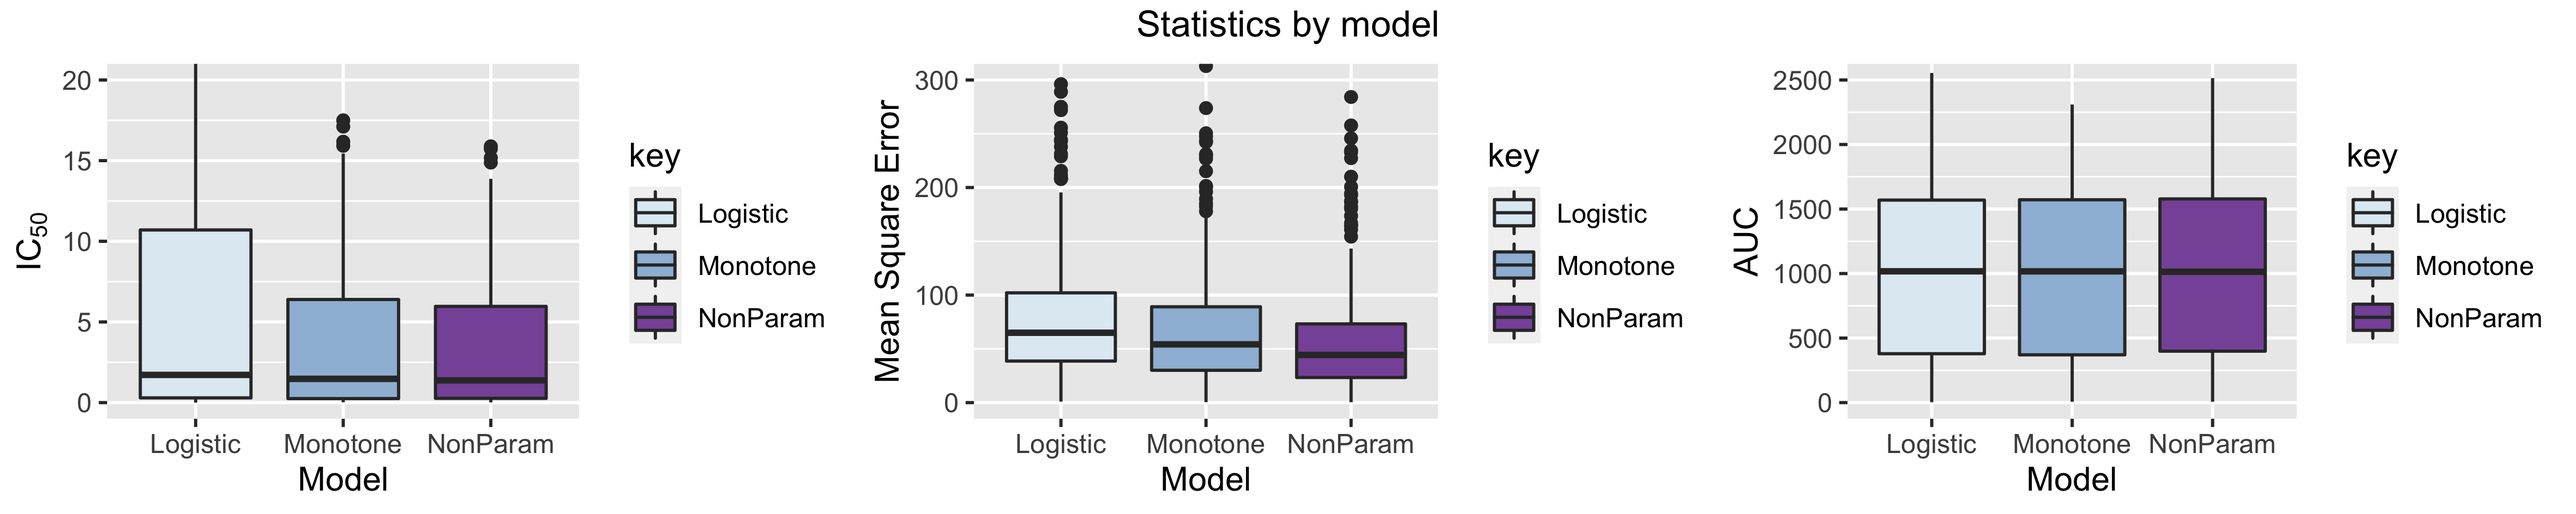
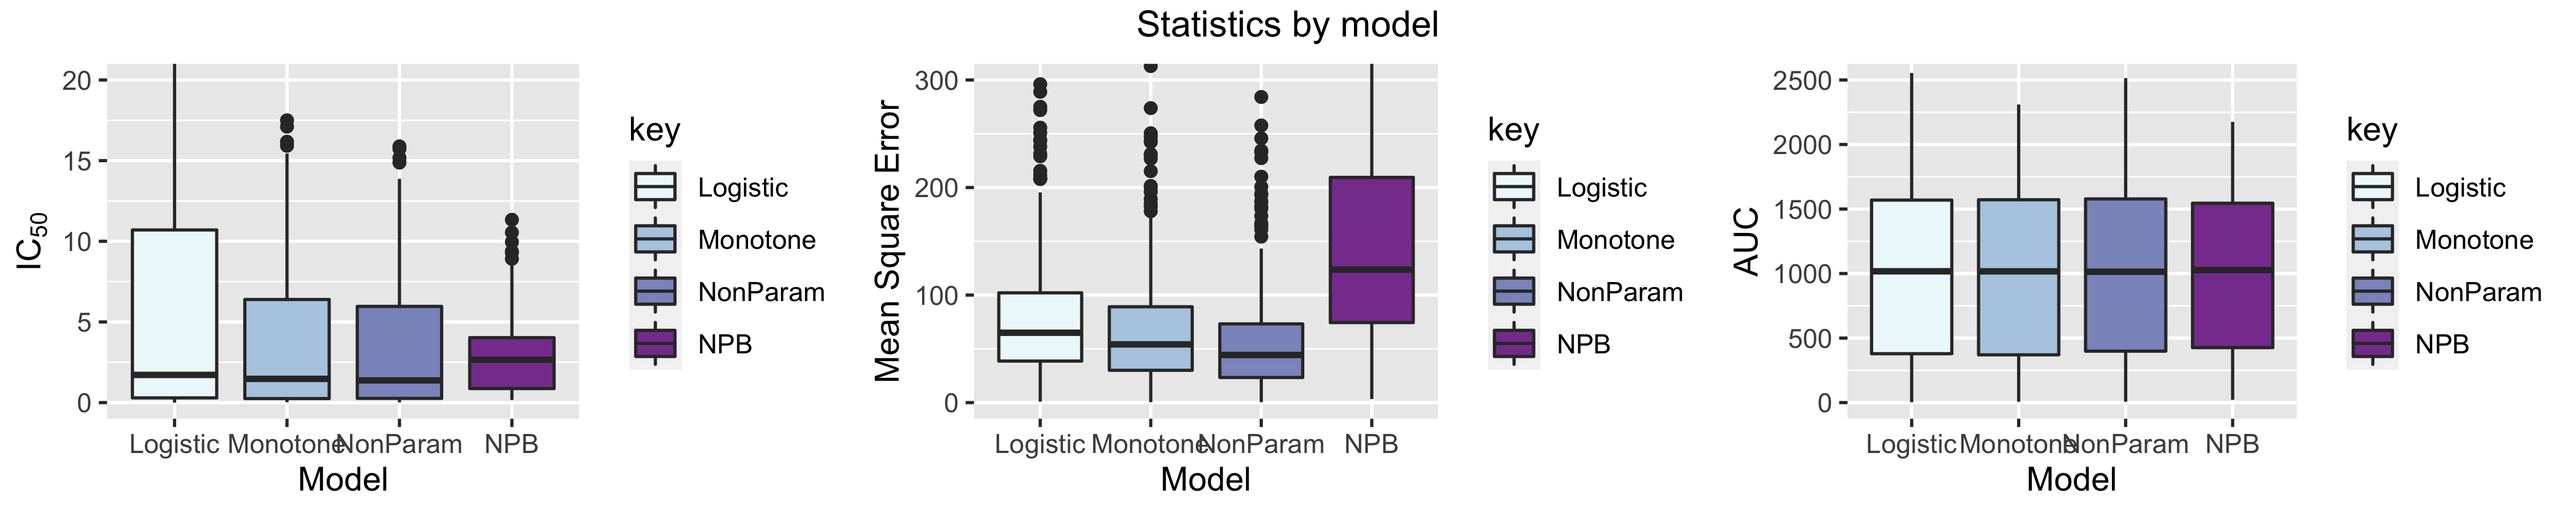
Supplementary Material and small changes

diff --git a/documents/supplementary.md b/documents/supplementary.md
@@ -1,0 +1,13 @@
+### Supplemantary Material
+
+- **Violin plots for the statistics**
+
+For all the data found in ["Intra-tumour diversification in colorectal cancer at the single-cell level"](https://www.nature.com/articles/s41586-018-0024-3), we have fitted each of the four models *npS*,*npM*, *npB* and *pL* to each combination of drug, patient, treatment and sample. For *npB* we followed the aformentioned procedure of fixing the knots of the function at the doses and choosing the variance parameter of the Normal CDF from a grid of values including the max-likelihood estimate, as the one which minimized the squared error, and then computed the posterior parameters with the Metropolis-Hastings algorithm for 10,000 iterations. We found the $IC_{50}$, $MSE$ and $AUC$ for each of the models which are shown in the figures below in violin plots. Note that we have included a box plot within the violin plots to showcase where the median, first and fourth quantiles are, and outliers are marked with strong dots. Outliers are those that reside outside the first quantile minus 1.5 times the interquartile range, or the third quantile plus 1.5 the interquantile range. 
+
+<img src="images/fig6.png" alt="drawing" style="width:300px;"/>
+<img src="images/fig7.png" alt="drawing" style="width:300px;"/>
+<img src="images/fig8.png" alt="drawing" style="width:300px;"/>
+
+Using a Shapiro test we reject the hypothesis of normality, so we use the nonparametric Wilcoxon test, to compare wether the mean of nonparametric models are statistical different from the parametric logistic model. The results of the tests are shown in the table below. In summary the $IC_{50}$ of NPS and NPM are slightly smaller than the Logistic model. The mean squared error of $NPS$ is the smallest as the mean is the statistic that minimizes the mean squared error, and so its MSE is different statistically from the Logistic model, the NPB has a significantly bigger MSE than the Logistic model. The AUC are similar in all the models. 
+
+<img src="images/fig9.png" alt="drawing" style="width:300px;"/>

diff --git a/documents/models4.md b/documents/models4.md
@@ -1,6 +1,6 @@
 #### Nonparametric Bayesian Model *(NPB)*
 
- Given points $(x_i, y_i)$ for $i=1..n$, with knots $K=\{k_i\}_{i=1}^J$ and parameter $\lambda>0$ we will model the relation between *x* and *y* with the Bayesian Hierarchical model
+ Given points $(x_i, y_i)$ for $i=1..n$, with knots $K=\{k_i\}_{i=1}^J$ and parameter $\lambda>0$ we will model the relation between *x* and *y* with the Bayesian hierarchical model
 
 <p align="center">
  <img src="images/fig5.png" alt="drawing" style="width:400px;"/>
@@ -13,12 +13,12 @@ $$
 
 Once the samples of the posterior distribution are obtained we drop out the first half of the observations by default. The estimate of the parameters is the mean value, following the procedure done in the previously cited paper. Once we have the mean estimates of the parameters $\hat{C}$, $\hat{a}$ , $\hat{\sigma}^2$ what we show in the plots is the function $\hat{f}(x)=\hat{C} + (1-\hat{C})\sum_{j=1}^J \hat{a}_j (1-F(x|k_j,\lambda))$. The $IC_{50}$ value is calculated from this function as
 $$
-f(IC_{50}) = \left(\max_{x_1\leq x\leq x_n}{f(x)}+\min_{x_1\leq x\leq x_n}{f(x)}\right)/2
+f(IC_{50}) = \frac{1}{2}\left(\max_{x_1\leq x\leq x_n}{f(x)}+\min_{x_1\leq x\leq x_n}{f(x)}\right),
 $$
 
 and for any $p\in (0,1)$ we have $IC_p$ obtained as the value such that
 $$
-f(IC_{p}) = \min_{x_1\leq x\leq x_n}f(x)+\left(\max_{x_1\leq x\leq x_n}{f(x)}-\min_{x_1\leq x\leq x_n}{f(x)}\right) p
+f(IC_{p}) = \min_{x_1\leq x\leq x_n}f(x)+p\left(\max_{x_1\leq x\leq x_n}{f(x)}-\min_{x_1\leq x\leq x_n}{f(x)}\right) .
 $$
 Note that the Bayesian approach would allow us to obtain for each sample of parameters an $IC$ and then have a distribution for it, from which we could take the mean, but it was decided. to obtain the $IC$ from the estimates such that the $IC_{50}$ would be marked on the curve on the plot. 
 

diff --git a/documents/home.md b/documents/home.md
@@ -2,7 +2,7 @@
 
 Mainly tailored on nonparameteric paradigm, the ***ENDS*** is a visualization and comparative drug-response curve fitting tool.
 
-The Data can be uploaded into the program in a *.csv* format. Nonparametric Spline (*npS*), nonparametric Monotonic (*npM*) and nonparametric Bayesian (*npB*) and parametric Logistic (*pL*) models are fit to the data. Each model computes its effective dose at 50% area under the curve and Mean Square Errors (MSE) for comparison. For the *npS* model we have several arithmatic measures provided to guide the expert in their elucidation from the data. ENDS also provides an option for fitting the four-parameter conventional log-logistic fit (*pL*) and possibility to download the obtained fits for each model as well as novel indices and statsitcs.
+The data can be uploaded into the program in a *.csv* format. Nonparametric Spline (*npS*), nonparametric Monotonic (*npM*) and nonparametric Bayesian (*npB*) and parametric Logistic (*pL*) models are fit to the data. Each model computes its effective dose at 50% area under the curve and Mean Square Errors (MSE) for comparison. For the *npS* model we have several arithmatic measures provided to guide the expert in their elucidation from the data. ENDS also provides an option for fitting the four-parameter conventional log-logistic fit (*pL*) and possibility to download the obtained fits for each model as well as novel indices and statsitcs.
 
 
 

diff --git a/documents/models2.md b/documents/models2.md
@@ -2,7 +2,7 @@
 
 This is the usual four parameter logistic fit to the data to minimize a squared error loss function, the model fit is the logistif function given by
 $$
-f(x) = c + \frac{d-c}{1+\exp{b(\log x - \log e)}}
+f(x) = c + \frac{d-c}{1+\exp{b(\log x - \log e)}},
 $$
 where *c* is the assympotic minimun value, *d* is the assympotic minimum value and *e* is the $IC_{50}$. Note that we are using   $\log x$ in the formula since the fit is done over the logarithm of the doses. The parameters are estimated by minimizing the squared error function $\|y-f(x)\|^2$. There is not an analytical soluiton to this problem, different numerical minimization algorithms exisit for estimating the parameters, our implementation uses the **R** package *drc*, which internally uses the base **R** optimizer *optim*. Note that the function is monotonic decreasing unless we have a degenerate fit, in which the adjusted function is a linear fit with non negative slope. 
 

diff --git a/documents/models1.md b/documents/models1.md
@@ -1,4 +1,4 @@
-#### Nonparametric Spline *(npS)*
+ #### Nonparametric Spline *(npS)*
 
 Given a sample of doses $d_1,..,d_n$ and for each i-th dose $d_i$ *m* responses $y_{i1},..,y_{im}$, then for each dose we can obtain the dose mean $y_i=\frac{1}{m}\sum_j y_{ij}$ or dose medians. The simple spline that connects each of this points with a linear function is given by the piece wise linear function
 $$

diff --git a/documents/models3.md b/documents/models3.md
@@ -12,7 +12,6 @@ This fit will always produce a non increasing fit, even in cases where the logis
 
 For the calculation of the effective doses at level $p\in (0,1)$ we find the unique value in the x-axis such that 
 $$
-f(IC_{p}) = (\max y + \min y) p
+f(IC_{p}) = \min_{x_1\leq x\leq x_n}f(x)+p\left(\max_{x_1\leq x\leq x_n}{f(x)}-\min_{x_1\leq x\leq x_n}{f(x)}\right).
 $$
- 
 
